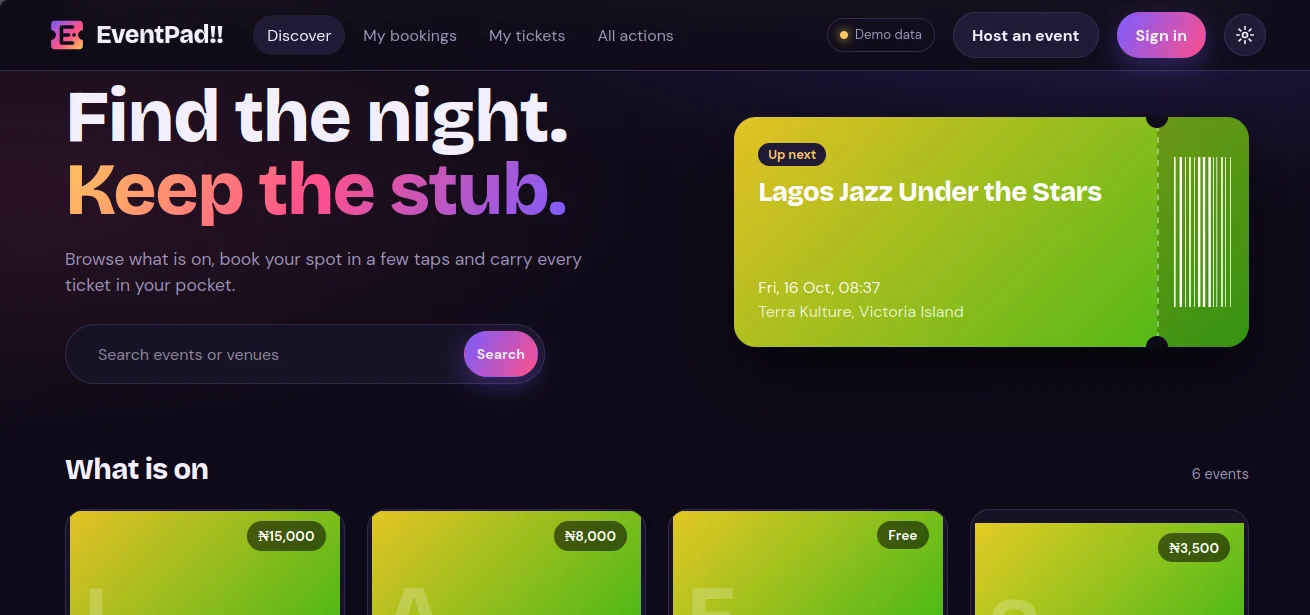
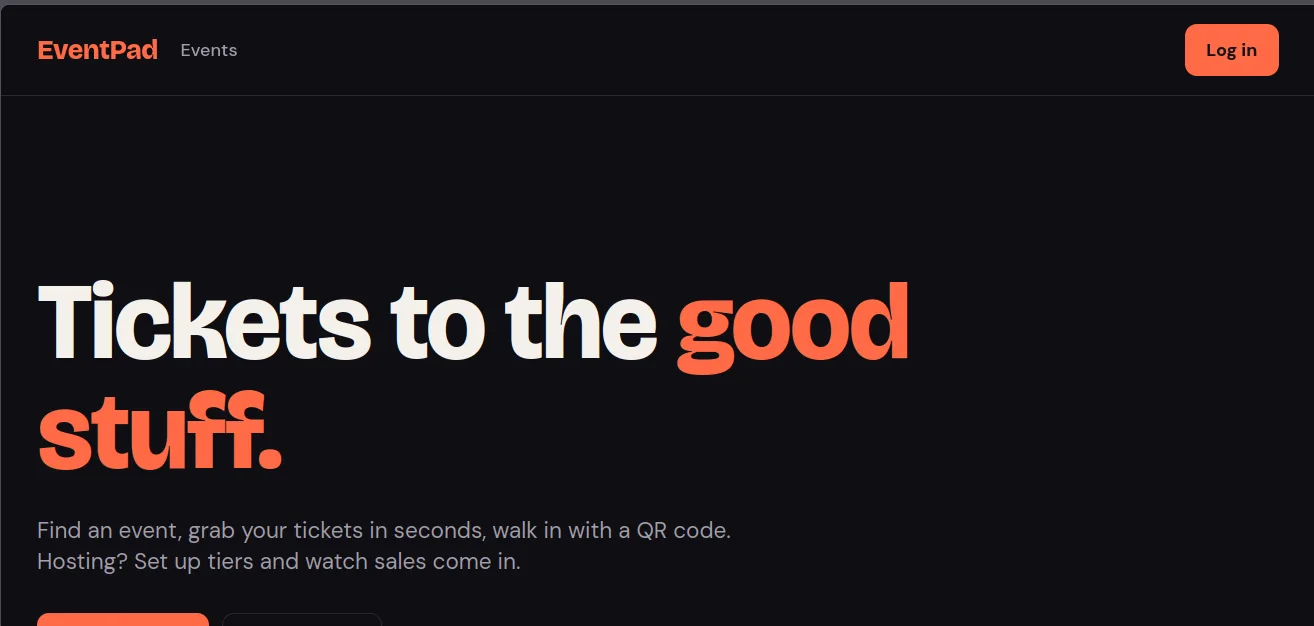
update on event padi picture

diff --git a/src/components/Work.jsx b/src/components/Work.jsx
@@ -10,7 +10,7 @@ import ecommerce from "../assets/shot-ecommerce.webp";
 // Real screenshots of the live apps, keyed by project `shot`; projects without one keep an illustration
 const SHOTS = {
   motora: { src: motora, w: 1314, h: 621, alt: "Motora home page: a dark car-care site with the headline 'The art of automotive care.', a Book Service button and a grey sports car behind the text" },
-  eventpad: { src: eventpad, alt: "EventPad home page: a dark interface with the headline 'Find the night. Keep the stub.', an event search bar and an 'Up next' ticket card for a Lagos jazz event" },
+  eventpad: { src: eventpad, w: 1314, h: 626, alt: "EventPad home page: a dark interface with the headline 'Tickets to the good stuff.', a short line about finding events and hosting with ticket tiers, and a Log in button" },
   chemist: { src: chemist, alt: "Chemist Management System sign-in page: headline 'Know what's on the shelf, before it's not', with Stock, Sales and Staff highlights and a registration form" },
   ecommerce: { src: ecommerce, alt: "SHOP.CO e-commerce home page with a navigation bar, product search and the headline 'Find clothes that match your style'" },
 };
